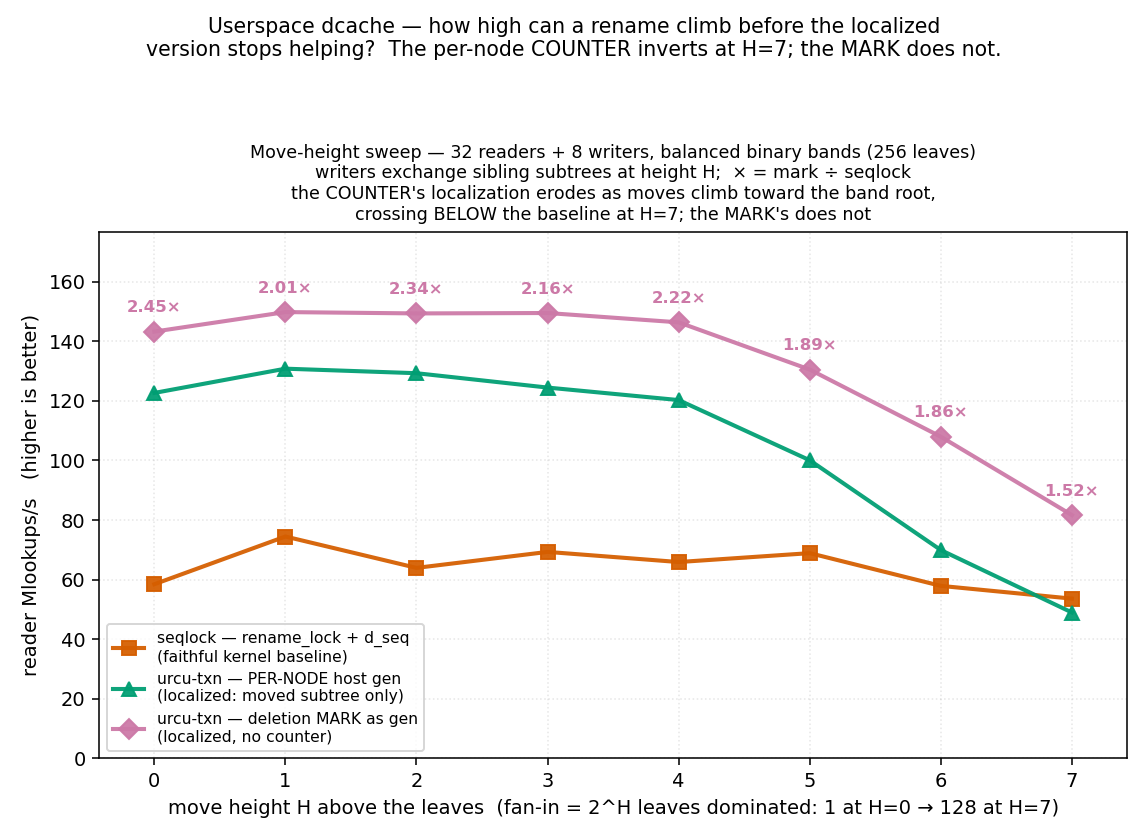
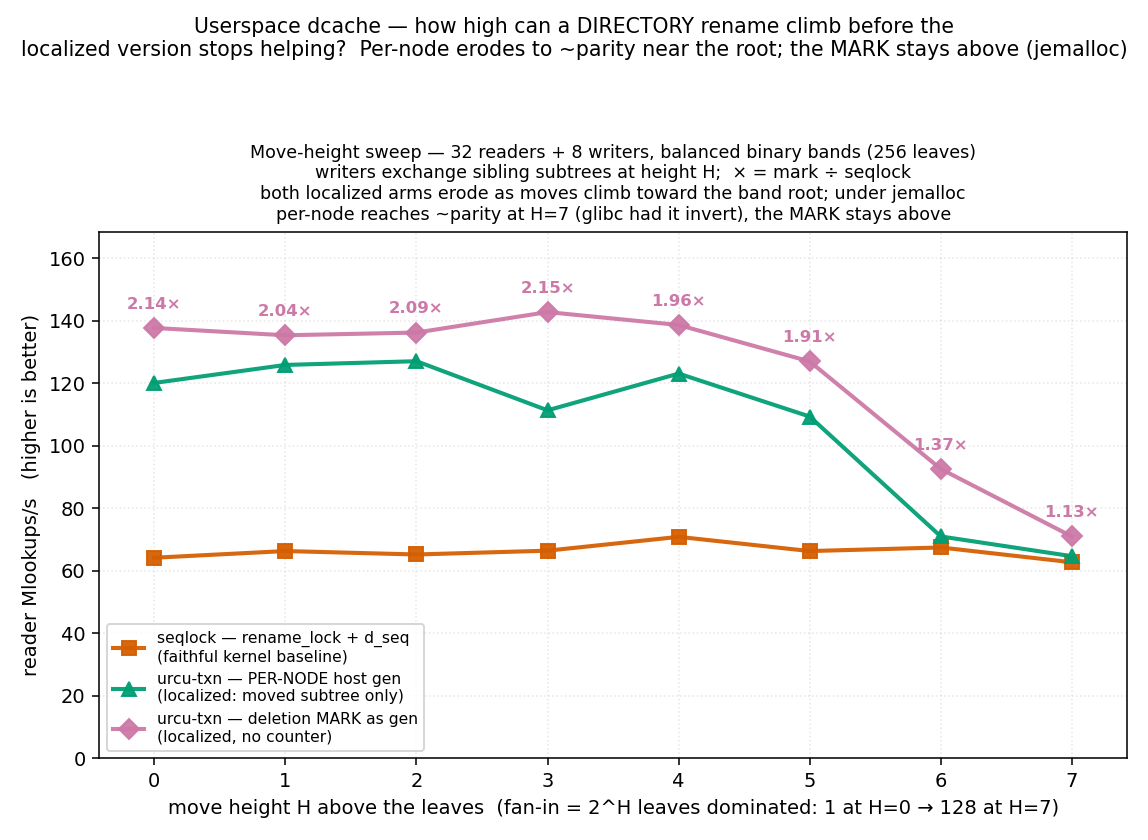
dcache: height panel under jemalloc -- the near-root inversion was partly glibc
Re-swept run_dcache_height.sh with jemalloc (its ndirs is already fine --
disjoint per-writer bands -- so only the allocator changes).  Directory
exchanges at height; readers walk full paths.

This REVISES a committed conclusion.  The earlier glibc figure (89a5ae3)
reported the per-node arm INVERTING below the kernel baseline near the
root: pn/seqlock 0.91x at H=7, "the honest bound on per-node
localization".  Under jemalloc it does NOT invert -- pn/seqlock reaches
~PARITY (1.12x and 1.03x across two sweeps), not below.  So the sharp
inversion was partly a glibc-allocator artifact (the fold frees exchanged
shells through call_rcu, and glibc alloc/free contention there evidently
depressed the per-node readers more than jemalloc does).

What survives, and is the honest statement: both localized arms erode as
the moved directory climbs toward the band root (mark/seqlock 2.1x at the
leaves -> ~1.1-1.3x at H=7; per-node 2.1x -> ~parity).  Per-node reaches
seqlock; the MARK stays above it throughout.  The mark's smaller erosion
is consistent with the rest of the session -- its signal is the
structural del, the lightest of the three.

CAVEAT: the near-root heights are noisy across sweeps (H=6 pn/seqlock 1.35
vs 1.05 between the two jemalloc runs), so these are quoted as
parity/ranges, not precise ratios; the committed CSV is one sweep.  The
robust qualitative findings -- no clear inversion under jemalloc, mark
erodes least -- hold across both.
[…]

diff --git a/scripts/plot_dcache_height.py b/scripts/plot_dcache_height.py
@@ -84,13 +84,15 @@ ax.set_xlabel("move height H above the leaves  "
 ax.set_ylabel("reader Mlookups/s   (higher is better)")
 ax.set_title("Move-height sweep — 32 readers + 8 writers, balanced binary bands "
              "(256 leaves)\nwriters exchange sibling subtrees at height H;  "
-             "× = mark ÷ seqlock\nthe COUNTER's localization erodes as moves climb "
-             "toward the band root,\ncrossing BELOW the baseline at H=7; the MARK's does not",
+             "× = mark ÷ seqlock\nboth localized arms erode as moves climb toward the "
+             "band root; under jemalloc\nper-node reaches ~parity at H=7 (glibc had it "
+             "invert), the MARK stays above",
              fontsize=9)
 ax.grid(alpha=0.3, ls=":")
 ax.legend(fontsize=8, loc="best")
-fig.suptitle("Userspace dcache — how high can a rename climb before the localized\n"
-             "version stops helping?  The per-node COUNTER inverts at H=7; the MARK does not.",
+fig.suptitle("Userspace dcache — how high can a DIRECTORY rename climb before the\n"
+             "localized version stops helping?  Per-node erodes to ~parity near the root; "
+             "the MARK stays above (jemalloc)",
              fontsize=10.5)
 fig.tight_layout(rect=[0, 0, 1, 0.93])
 fig.savefig(OUT, dpi=140)
